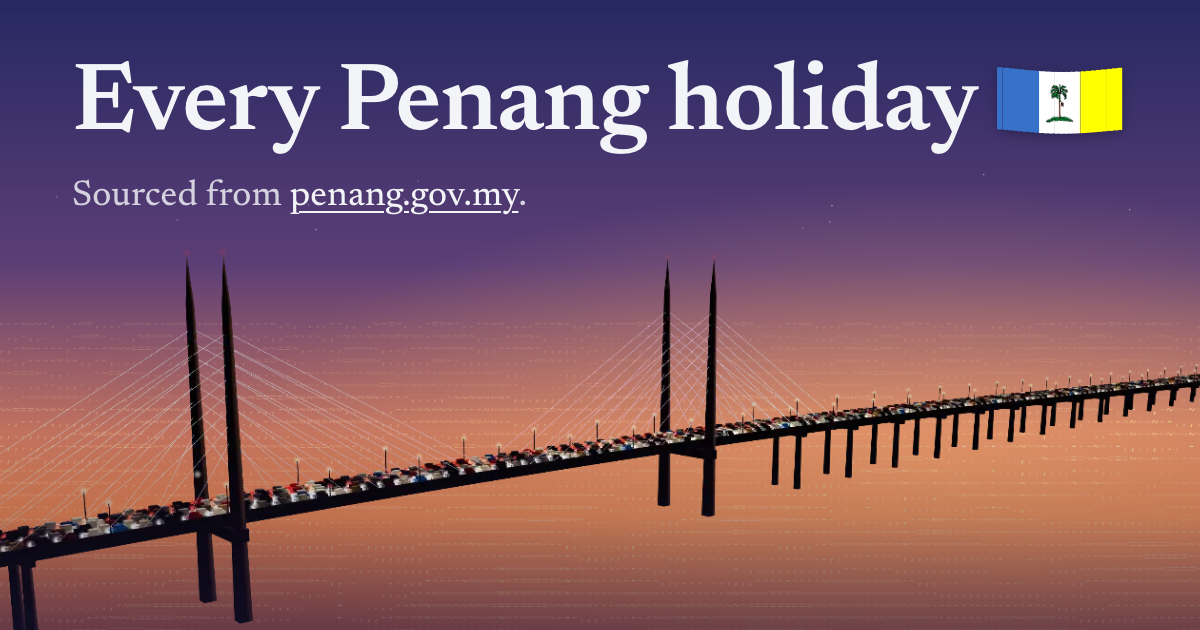
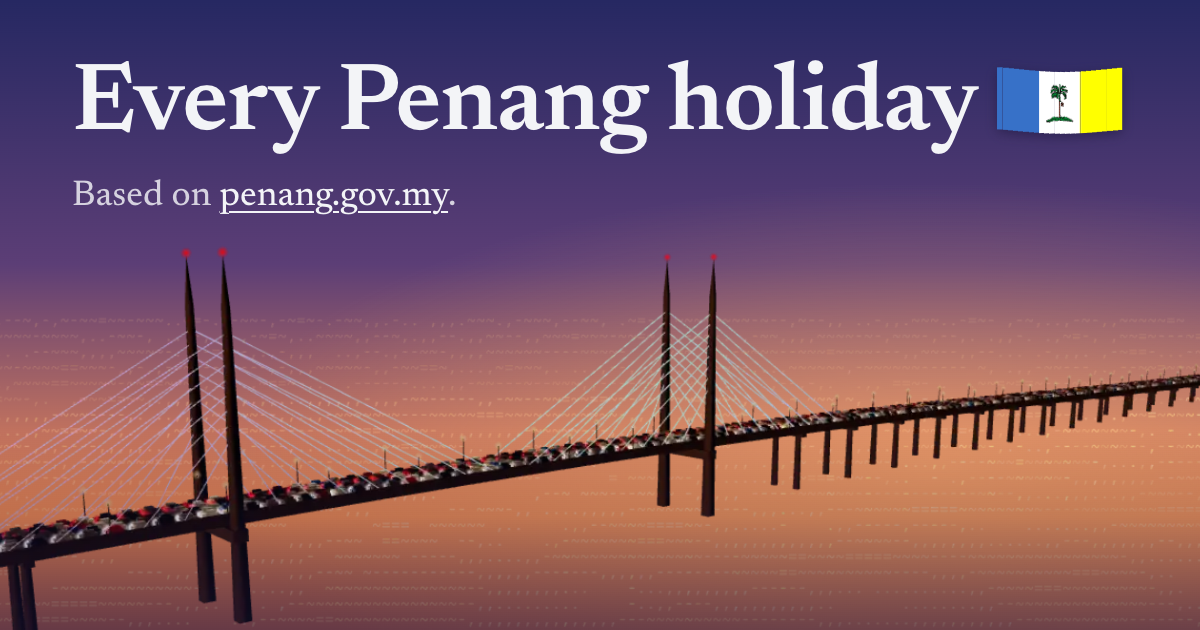
Credit the holidays as based on penang.gov.my, berdasarkan in Malay, and draw the shared image again with it and the new still of the bridge

diff --git a/scripts/og.html b/scripts/og.html
@@ -123,7 +123,7 @@
 					><span class="strip" style="--i: 22"></span><span class="strip" style="--i: 23"></span
 				></span>
 			</h1>
-			<p>Sourced from <span class="link">penang.gov.my</span>.</p>
+			<p>Based on <span class="link">penang.gov.my</span>.</p>
 		</header>
 	</body>
 </html>
